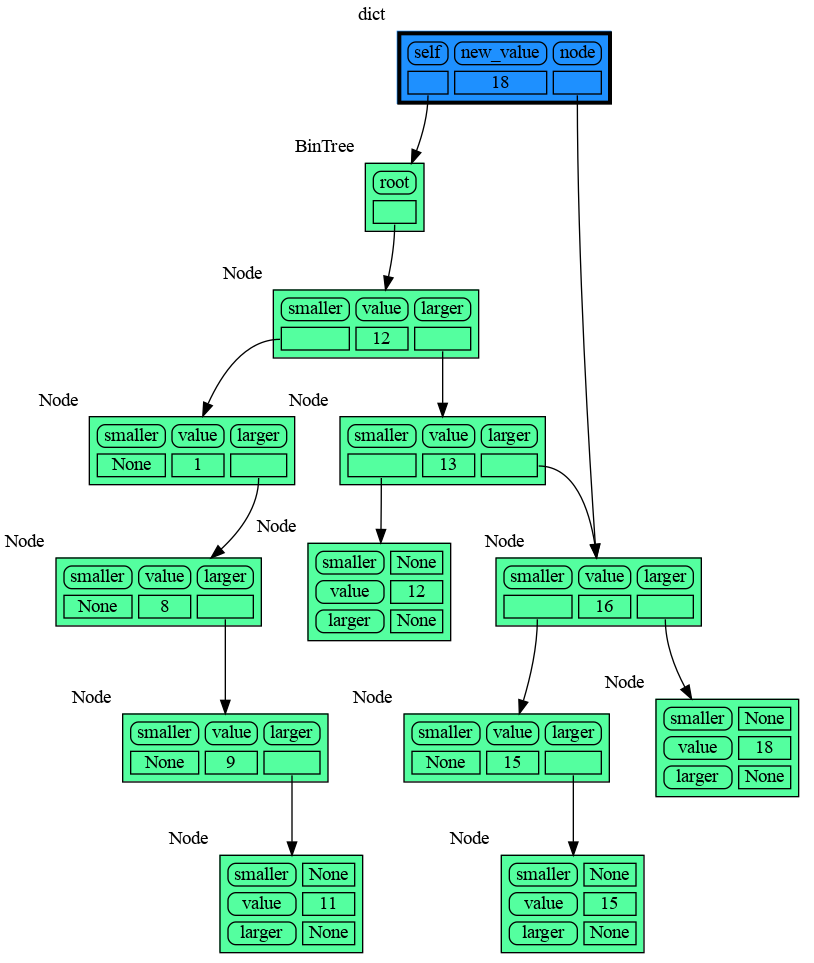
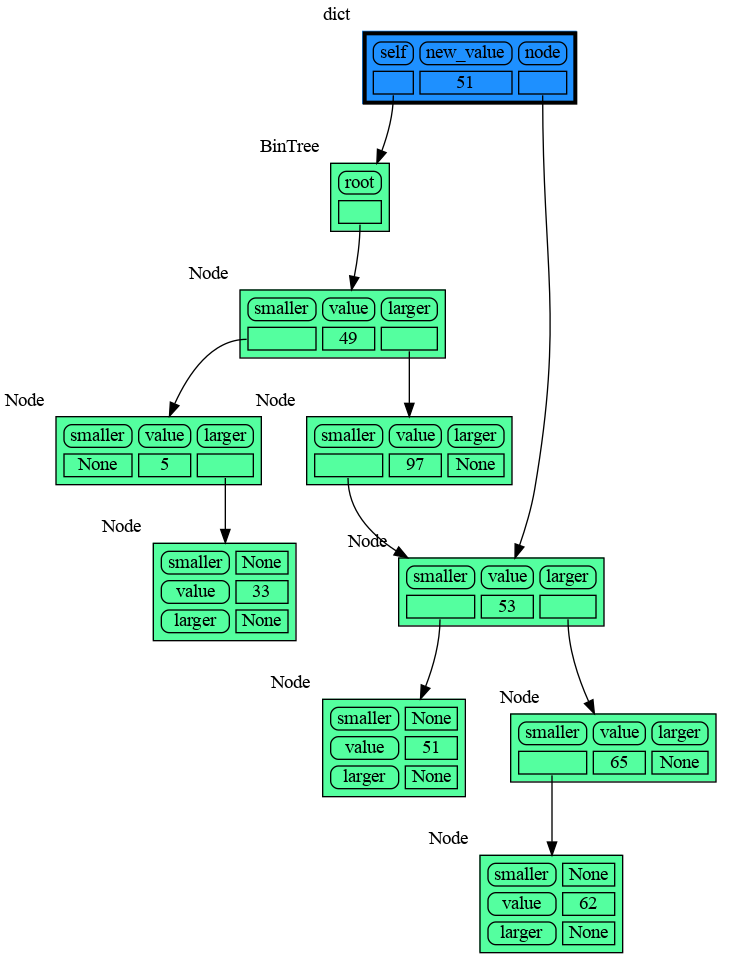
update

diff --git a/images/bin_tree.py b/images/bin_tree.py
@@ -25,7 +25,7 @@ class BinTree:
                 node.larger = Node(new_value)
             else:
                 self.add_recursive(new_value, node.larger)
-        if new_value == 18:
+        if new_value == 51:
             memory_graph.render(locals(), f"bin_tree.png")
             exit(0)
 
@@ -36,7 +36,7 @@ class BinTree:
             self.add_recursive(value, self.root)
 
 tree = BinTree()
-n = 20
+n = 100
 for i in range(n):
     new_value = random.randrange(n)
     tree.add(new_value)

diff --git a/images/hash_set.py b/images/hash_set.py
@@ -4,7 +4,7 @@ random.seed(0) # use same random numbers each run
 
 class HashSet:
     
-        def __init__(self, capacity=20):
+        def __init__(self, capacity=15):
             self.buckets = [None] * capacity
     
         def add(self, value):

diff --git a/README.md b/README.md
@@ -409,15 +409,15 @@ random.seed(0) # use same random numbers each run
 
 class HashSet:
 
-    def __init__(self, capacity=20):
+    def __init__(self, capacity=15):
         self.buckets = [None] * capacity
 
     def add(self, value):
         index = hash(value) % len(self.buckets)
         if self.buckets[index] is None:
-            self.buckets[index] = [value]
-        else:
-            self.buckets[index].append(value)
+            self.buckets[index] = []
+        bucket = self.buckets[index]
+        bucket.append(value)
         memory_graph.d() # <--- draw graph
 
     def contains(self, value):
